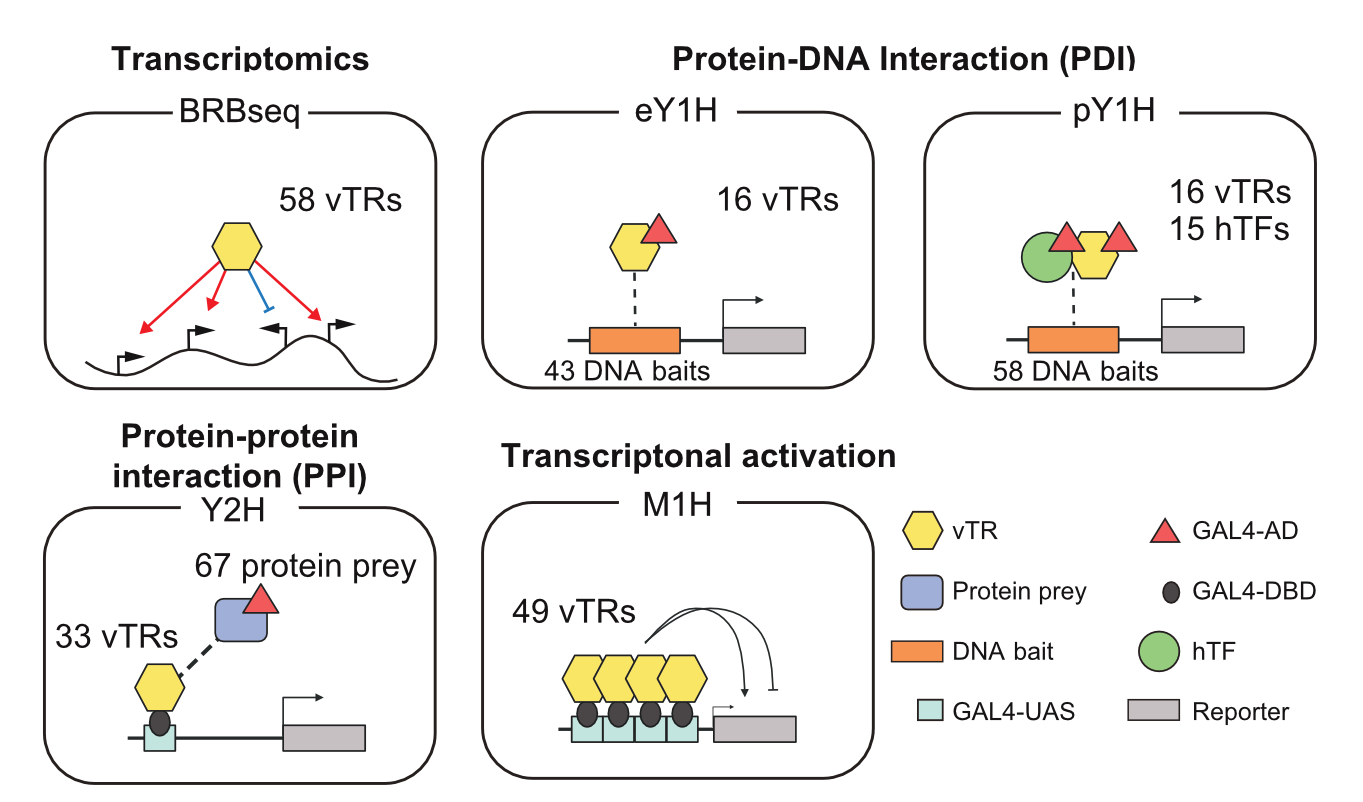
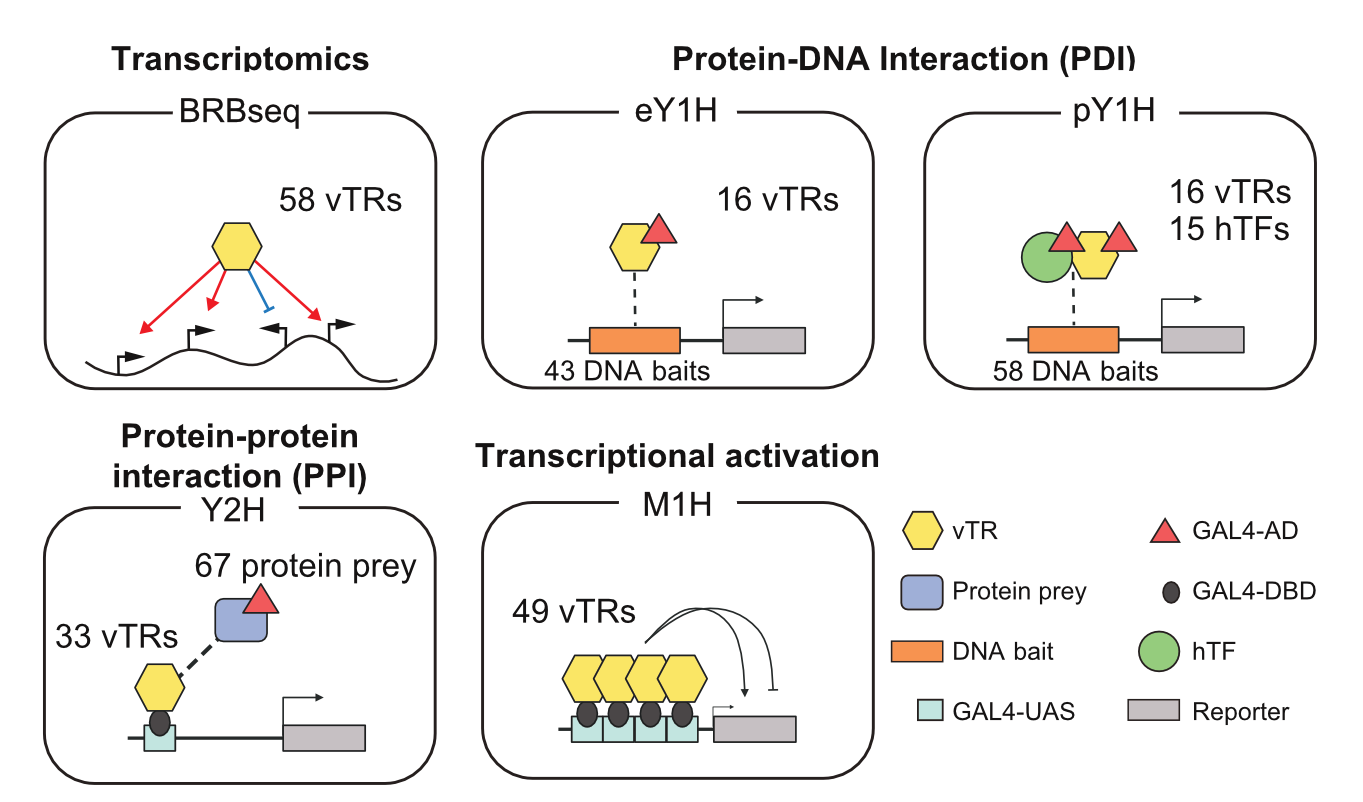
README updated

Changed region(s): [[0.339, 0.5299, 0.6779, 0.5923]]

diff --git a/README.md b/README.md
@@ -40,7 +40,7 @@ This module handles the primary processing of BRB-seq data. It aligns raw reads 
     3.  **DGE Analysis (`DESeq2`):**
         * Performed using a pooled matrix design with batch as a covariate.
         * Significance cutoff: Benjamini–Hochberg FDR < 0.1.
-    4.  **Functional Analysis (`fgsea`):**
+    4.  **Functional Analysis (`clusterProfiler`):**
         * Database: MSigDB C2:CP-REACTOME.
         * **CSI Calculation:** Connection Specificity Index calculated from GSEA Normalized Enrichment Scores (NES) to quantify sample-sample similarity at the pathway level.
 
@@ -95,7 +95,6 @@ The analysis pipeline requires the following software and libraries:
 * **Genomics & Bioinformatics:**
     * `Seurat`
     * `DESeq2`
-    * `fgsea`
     * `msigdbr`
     * `tximport`
     * `GenomicFeatures`
